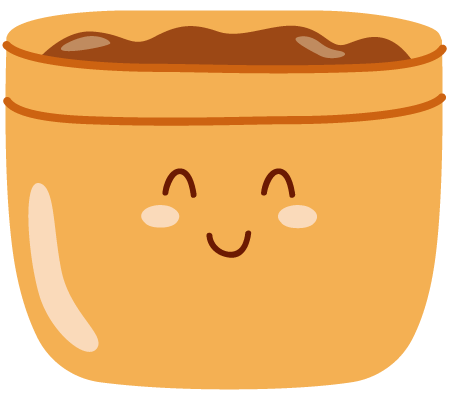
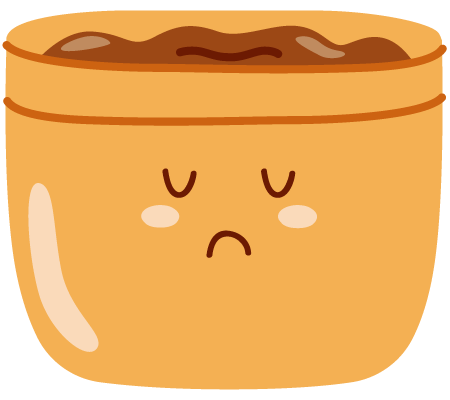
ver 0.05 添加浇水功能

diff --git a/js/flowerpot.js b/js/flowerpot.js
@@ -3,6 +3,7 @@
         this.fpObj = new createjs.Container();
 	    game.stage.addChild(this.fpObj);
         this.fpNum = 9;
+        this.fp = [];
         var self = this;
 
         var x = game.canvas.width / 2;
@@ -10,18 +11,19 @@
         var j = 0;
         var k = 0;
         for(let i = 0 ;i < this.fpNum ; i++){
-            self.fp = new createjs.Bitmap(game.assets.images.flowerpot1);
-            self.fp.regX = 225;
-            self.fp.regY = 200;
-            self.fp.x = x - 130 + 130 * j;
-            self.fp.y = y - 200 + 200 * k;
-            self.fp.scale = 0.18;
-            self.fpObj.addChild(self.fp);
-            self.fp.addEventListener("click",function(event){
-                console.log(i);
-                //点击删除自己的代码
-                self.fpObj.removeChild(event.target);
-                // game.manager.enter(1);
+            if(!game.gameObj.flowerpot[i].water){
+                self.fp[i] = new createjs.Bitmap(game.assets.images.flowerpot1);
+            }else{
+                self.fp[i] = new createjs.Bitmap(game.assets.images.flowerpot2);
+            }
+            self.fp[i].regX = 225;
+            self.fp[i].regY = 200;
+            self.fp[i].x = x - 130 + 130 * j;
+            self.fp[i].y = y - 200 + 200 * k;
+            self.fp[i].scale = 0.18;
+            self.fpObj.addChild(self.fp[i]);
+            self.fp[i].addEventListener("click",function(event){
+                self.watering(event,i);
             });
             if(j < 2){
                 j++
@@ -33,6 +35,20 @@
     }
 
     Flowerpot.prototype.update = function(){
-        
+        var self = this;
+        for(let i = 0 ; i < self.fpNum ; i++){
+            //比较上次浇水时间和现在时间，如果大于设定值，则土地变为干地
+            if((game.gameObj.nowtime - game.gameObj.flowerpot[i].time)/1000 > 10){
+                self.fp[i].image = game.assets.images.flowerpot1;
+            }
+        }
+    }
+    Flowerpot.prototype.watering = function(event,i){
+        console.log(i);
+        game.gameObj.flowerpot[i].time = new Date().getTime();
+        let target = event.target;
+        target.image = game.assets.images.flowerpot2;
+        //点击删除自己的代码
+        // this.fpObj.removeChild(event.target);
     }
 })()

diff --git a/js/game.js b/js/game.js
@@ -4,6 +4,16 @@
         this.canvas.width = document.documentElement.clientWidth;
         this.canvas.height = document.documentElement.clientHeight;
         this.assets = {images:[],sounds:[]};
+        this.gameObj = {"flowerpot" : [{"water" : 0 , "time" : 0},
+                                       {"water" : 0 , "time" : 0},
+                                       {"water" : 0 , "time" : 0},
+                                       {"water" : 0 , "time" : 0},
+                                       {"water" : 0 , "time" : 0},
+                                       {"water" : 0 , "time" : 0},
+                                       {"water" : 0 , "time" : 0},
+                                       {"water" : 0 , "time" : 0},
+                                       {"water" : 0 , "time" : 0}],
+                        "nowtime" : 0};
         this.stage = new createjs.Stage("game");
         var self = this;
         this.loading(function(){
@@ -34,6 +44,7 @@
         self.stage.addChild(nowManager);
         nowManager.x = nowManager.y = 10;
         function start(){
+            self.gameObj.nowtime = new Date().getTime();
             self.manager.update();
             nowManager.text = self.manager.managerNum;
             game.stage.update();
